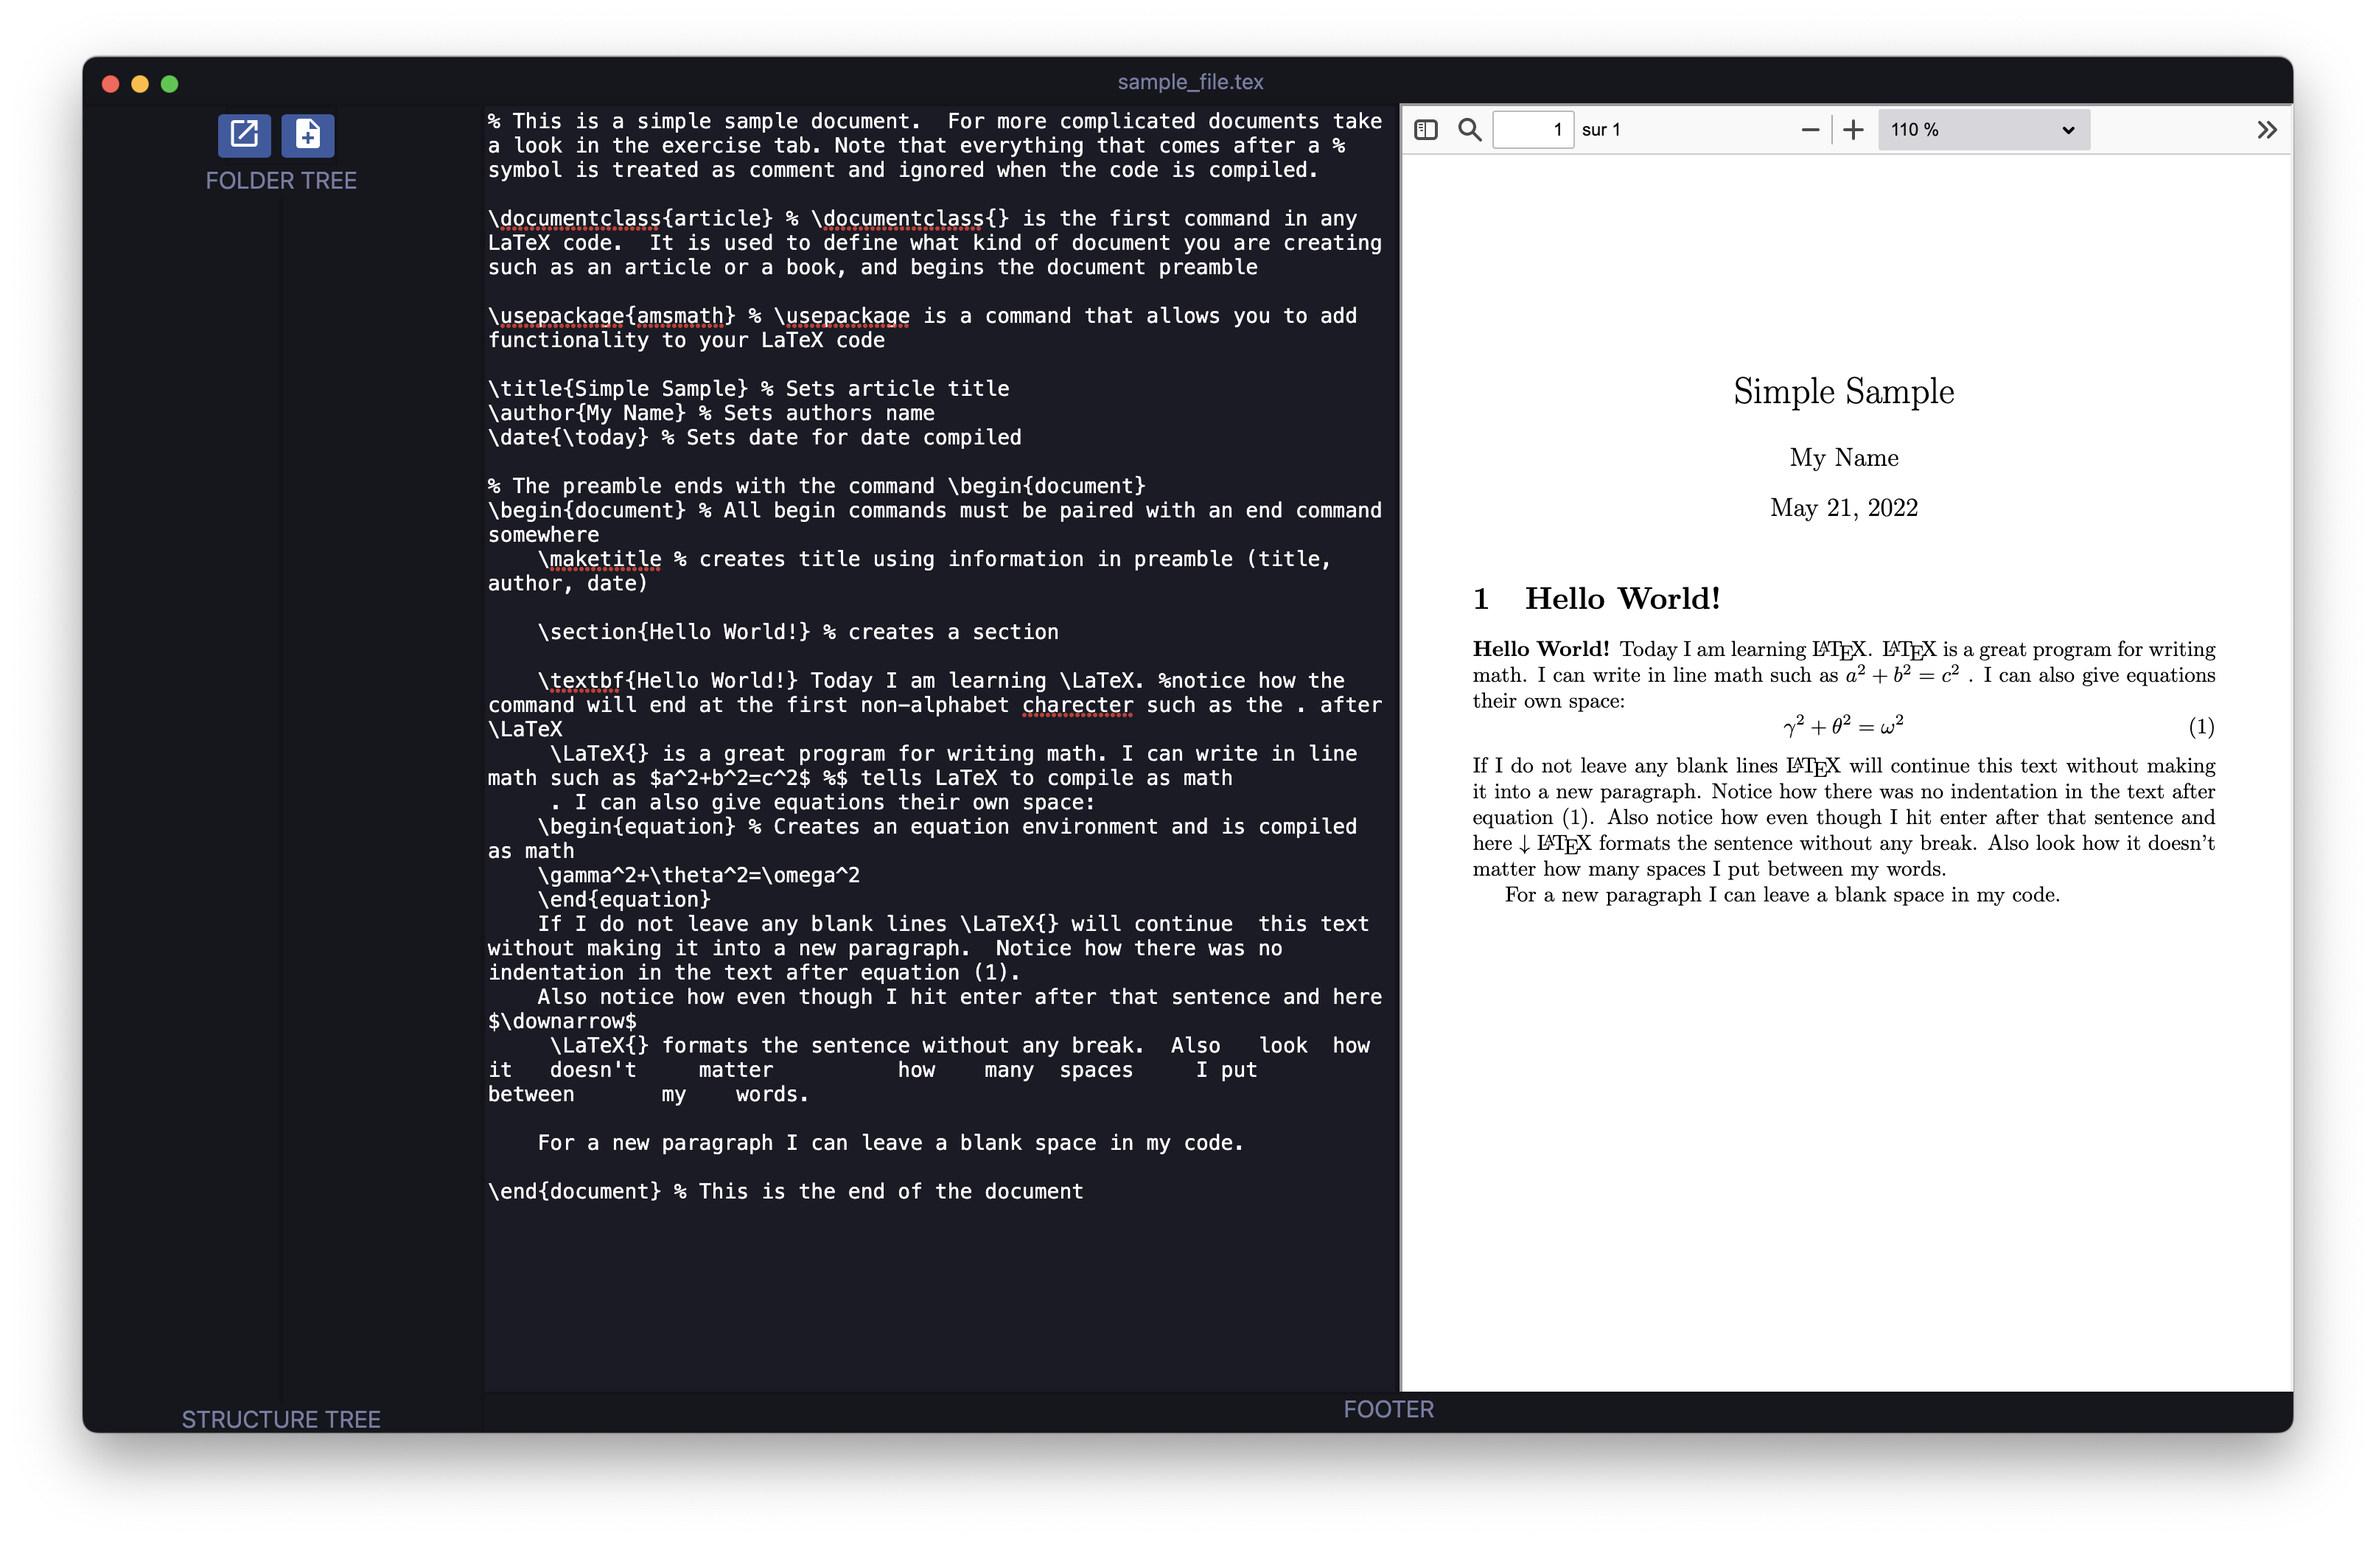
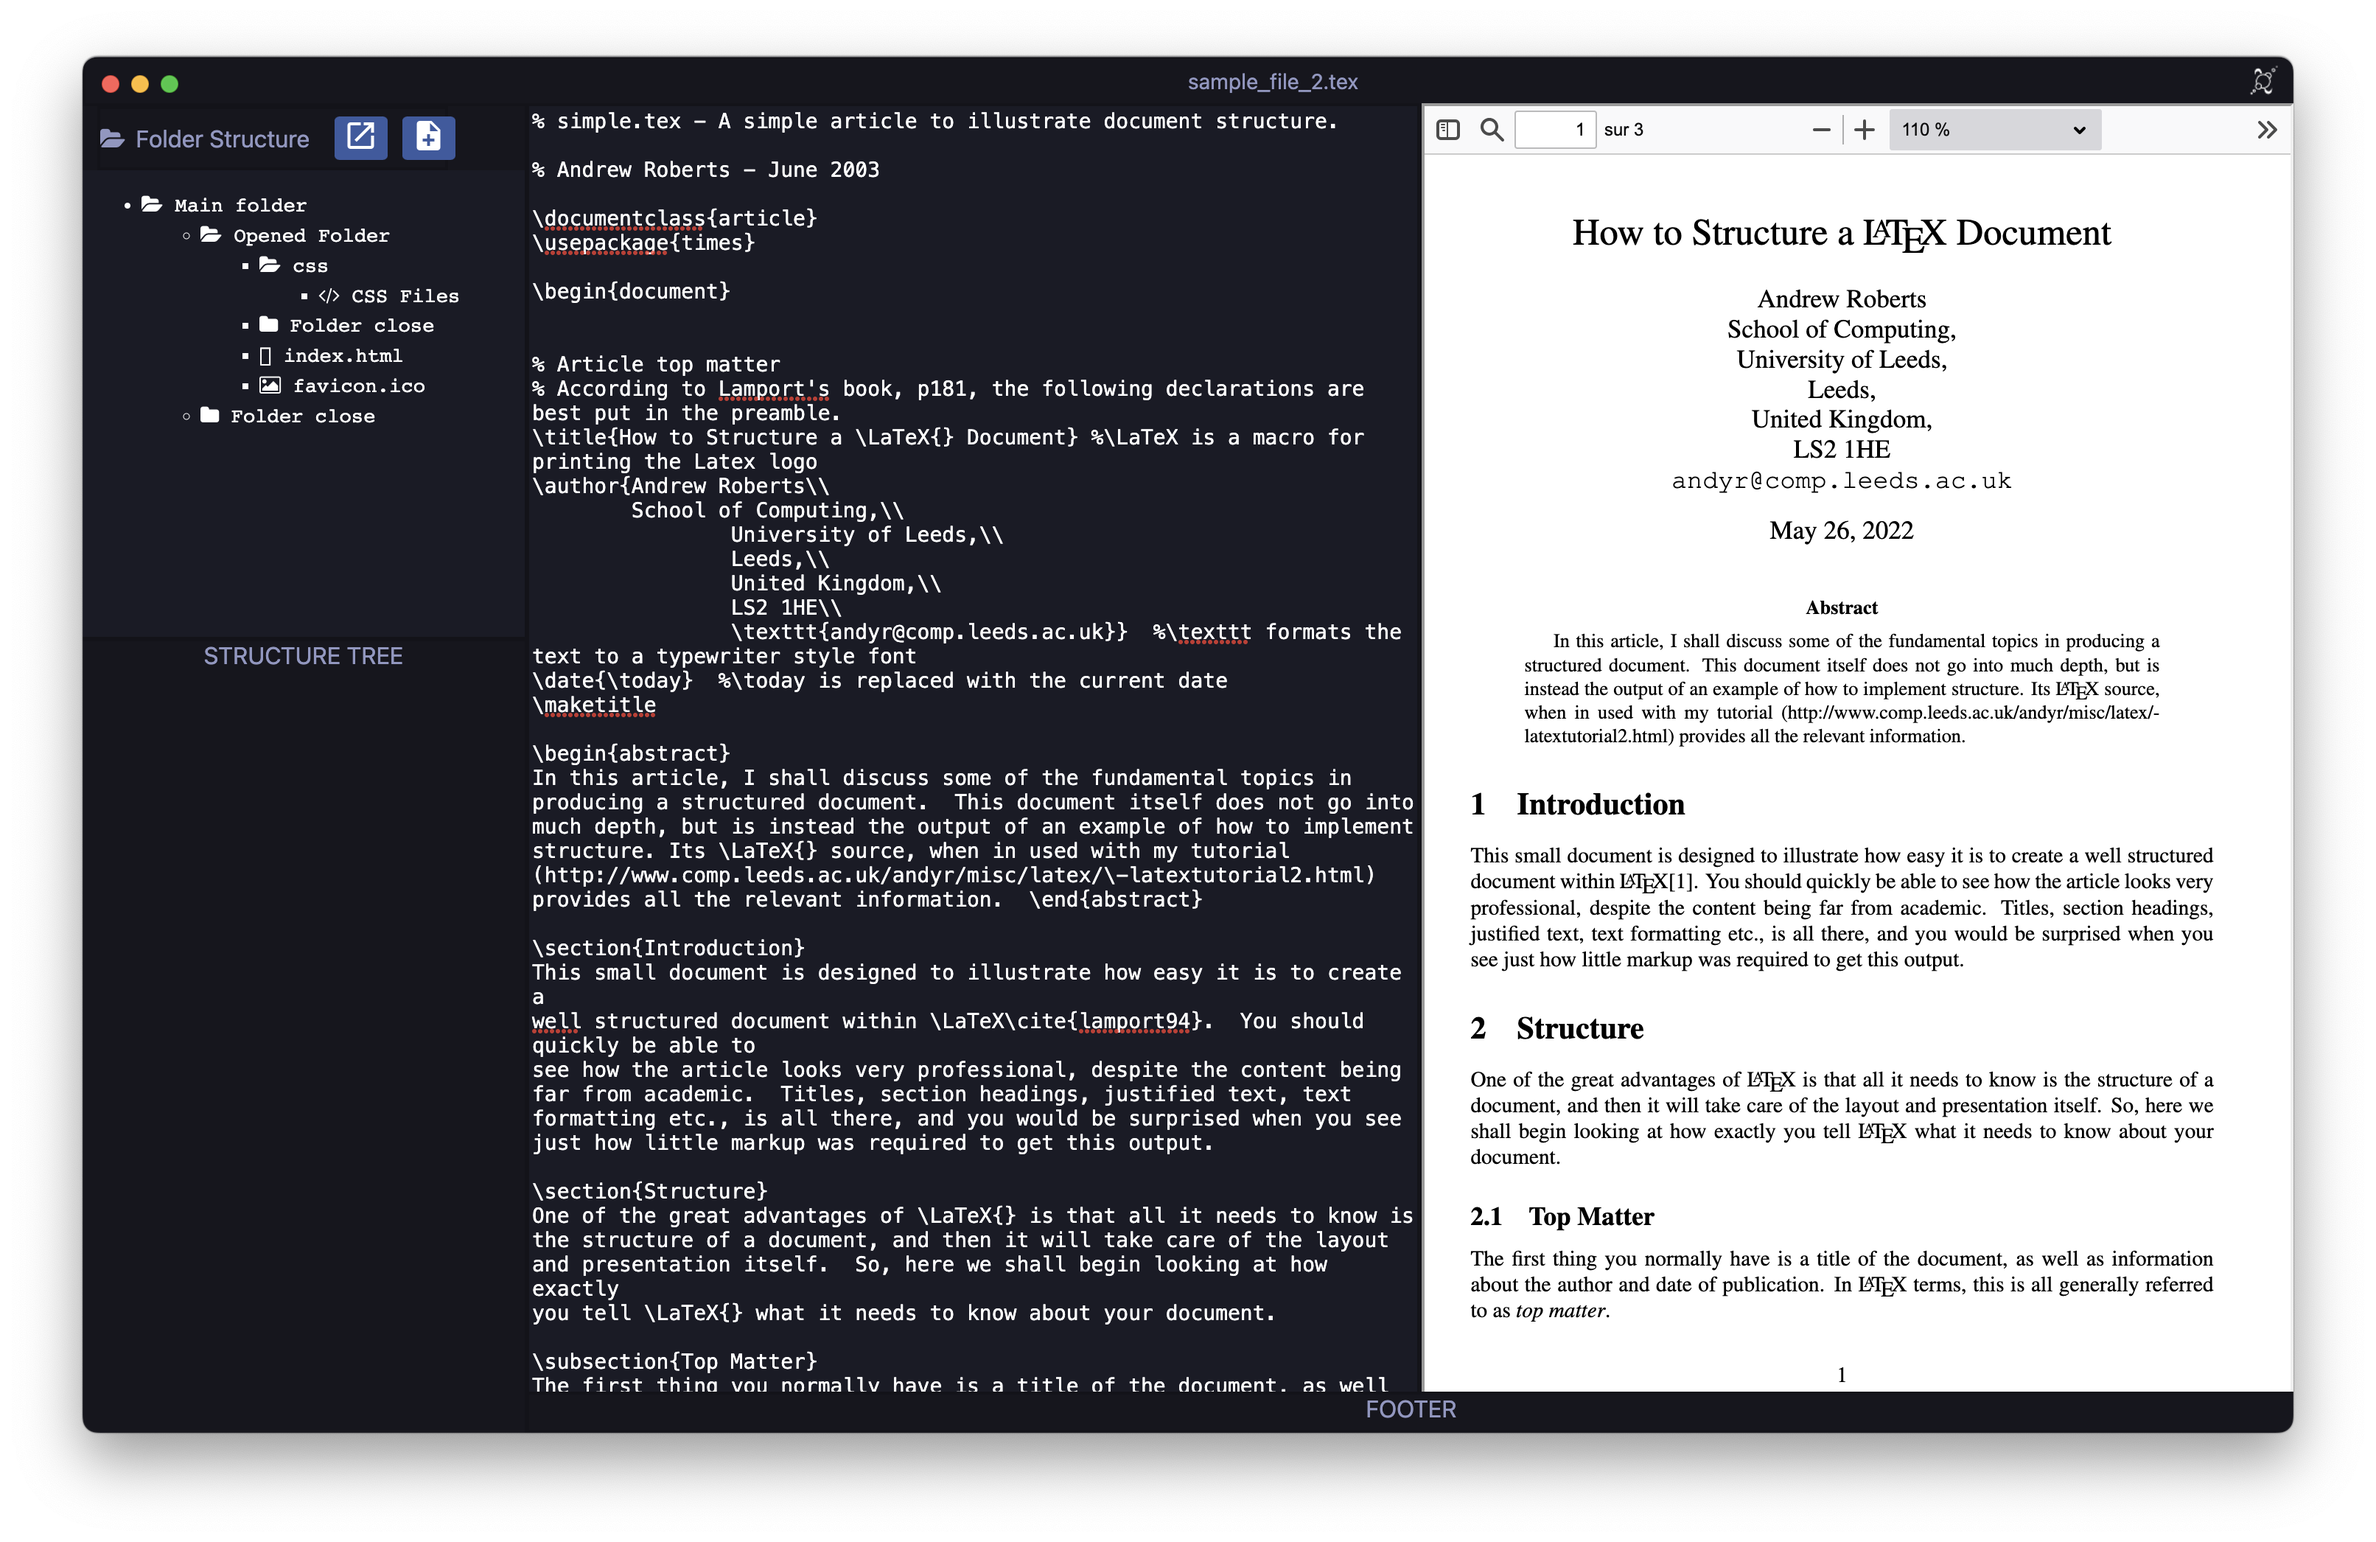
Diverse updates

diff --git a/src/index.html b/src/index.html
@@ -7,6 +7,7 @@
         <meta http-equiv="Content-Security-Policy" content="script-src 'self';" />
 
         <link href="https://fonts.googleapis.com/css2?family=Material+Icons" rel="stylesheet" />
+        <link rel="stylesheet" href="https://cdnjs.cloudflare.com/ajax/libs/font-awesome/4.7.0/css/font-awesome.min.css">
         <link rel="stylesheet" href="./styles.css" />
 
         <title>Elements LaTeX</title>
@@ -14,18 +15,41 @@
     <body>
         <div class="title-bar">
             <span class="document-name unselectable" id="documentName"> No file opened yet </span>
-            <img class="unselectable" id="simplifiedLogoImage" src="../assets/ui/simplified_logo.png" alt="Simplified Elements Logo">
-        </div>
+            <img class="unselectable" id="simplifiedLogoImage" src="../assets/ui/simplified_logo.png" alt="Simplified Elements Logo">        </div>
 
         <main>
             <div class="HContainer" id="main-container">
                 <div class="VContainer" id="sidePanel">
                     <div id="folderTreePanel">
                         <div id="folderManagementBar">
+                            <div class="unselectable" id="folderStructureLabel"><i class="fa fa-folder-open"></i>Folder Structure</div>
                             <button id="openDocumentBtn"><span class="material-icons"> launch </span></button>
                             <button id="createDocumentBtn"><span class="material-icons"> note_add </span></button>
                         </div>
-                        FOLDER TREE
+                        
+                        <div class="tree unselectable">
+                            <ul>
+                              <li><i class="fa fa-folder-open"></i> Main folder
+                                <ul>
+                                  <li><i class="fa fa-folder-open"></i> Opened Folder
+                                    <ul>
+                                      <li><i class="fa fa-folder-open"></i> css
+                                        <ul>
+                                          <li><i class="fa fa-code"></i> CSS Files</li>    
+                                        </ul>
+                                      </li>
+                                      <li><i class="fa fa-folder"></i> Folder close
+                                      </li>
+                                      <li><i class="fab fa-html5"></i> index.html</li>
+                                      <li><i class="fa fa-picture-o"></i> favicon.ico</li>
+                                    </ul>
+                                  </li>
+                                  <li><i class="fa fa-folder"></i> Folder close</li>
+                                </ul>
+                              </li>
+                            </ul>
+                        </div>
+
                     </div>
                     <div id="folderStructureResizer" class="resizer" data-direction="vertical"></div>
                     <div id="structureTreePanel">STRUCTURE TREE</div>

diff --git a/src/styles.css b/src/styles.css
@@ -2,7 +2,8 @@
 body {
     background-color: rgb(22, 22, 30);
     margin: 0;
-    color: rgb(120, 124, 163);
+    color: rgb(146, 150, 195);
+    /*rgb(120, 124, 163);*/
     display: flex;
     flex-direction: column;
     height: 100vh;
@@ -87,32 +88,68 @@ main
 
 /* SIDE PANEL */
 #sidePanel {
-    width: 18%;
+    width: 20%;
 
     align-items: center;
     display: flex;
     flex-direction: column;
     text-align: center;
     justify-content: center;
+
+    min-width: 10%;
+}
+
+#folderStructureLabel {
+    font-size: medium;
+    width: auto;
+    white-space: nowrap;
+    margin-right: 5%;
+}
+
+#folderStructureLabel i {
+    margin-right: 7px;
 }
 
 #folderTreePanel {
+    width: 100%;
     height: 40%;
+    min-height: 30%;
     display: flex;
     align-items: center;
     justify-content: center;
     flex-direction: column;
 }
 
+.tree {
+    width: 100%;
+    height: 100%;
+    background-color: rgb(26, 27, 38);
+    color: #fff;
+    font-family: 'Roboto Mono', monospace;
+    font-size: .85rem;
+    font-weight: 400;
+    line-height: 1.5;
+    text-align: left;
+}
+
+.tree span {
+      font-size: 13px;
+      font-style: italic;
+      letter-spacing: .4px;
+      color: #a8a8a8;
+}
+
 #folderManagementBar {
     display: flex;
     align-items: center;
-    justify-content: center;
+    justify-content: left;
+    margin-left: 10px;
+    margin-right: auto;
 }
 
 #folderManagementBar button {
     border-radius: 10%;
-    margin-right: 10%;
+    margin: 5px;
     background-color: rgb(61, 89, 161);
     border: none;
     outline: none;
@@ -121,7 +158,9 @@ main
 
 #structureTreePanel {
     flex: 1;
-    vertical-align: center;
+    height: 100%;
+
+    min-height: 20%;
 }
 
 /* DEVELOPMENT PANEL */
@@ -142,13 +181,14 @@ main
 #codeEditorPanel {
     font-size: 14px;
     width: 50%;
+    min-width: 20%;
 
     align-items: center;
     display: flex;
     justify-content: center;
 
     background-color: rgb(26, 27, 38);
-    color: #fff;
+    color: #fff;/*rgb(122, 162, 247);*/
     border: none;
     outline: none;
     resize: none;
@@ -175,6 +215,8 @@ main
     align-items: center;
     display: flex;
     justify-content: center;
+
+    min-width: 20%;
 }
 
 iframe {

diff --git a/src/renderer.js b/src/renderer.js
@@ -2,6 +2,23 @@ const { ipcRenderer } = require("electron");
 const path = require("path");
 const fs = require("fs");
 
+var _getAllFilesFromFolder = function(dir) {
+    var results = [];
+
+    filesystem.readdirSync(dir).forEach(function(file) {
+
+        file = dir+'/'+file;
+        var stat = filesystem.statSync(file);
+
+        if (stat && stat.isDirectory()) {
+            results = results.concat(_getAllFilesFromFolder(file))
+        } else results.push(file);
+
+    });
+
+    return results;
+};
+
 window.addEventListener("DOMContentLoaded", () => {
     let texDocumentPath = "";
 
@@ -35,7 +52,7 @@ window.addEventListener("DOMContentLoaded", () => {
             if (err == null) {
                 // Create an iframe that points to our PDF.js viewer, and tell PDF.js to open the file that was selected from the file picker.
                 const iframe = document.createElement('iframe');
-                iframe.src = path.resolve(__dirname, `../libs/pdfjs/web/viewer.html?file=${pdfPath}#pagemode=none`);
+                iframe.src = path.resolve(__dirname, `../libs/pdfjs/web/viewer.html?file=${pdfPath}#pagemode=none&zoom=110`);
 
                 // Add the iframe to our UI.
                 viewerEle.appendChild(iframe);
@@ -69,9 +86,9 @@ window.addEventListener("DOMContentLoaded", () => {
         handleDocumentChange(filePath, content);
     });
 
-
+    const minWidth = 15;
+    const minHeight = 15;
     /* RESIZABLE AREAS */
-    
     const resizable = function (resizer) {
         const direction = resizer.getAttribute('data-direction') || 'horizontal';
         const prevSibling = resizer.previousElementSibling;

diff --git a/src/main.js b/src/main.js
@@ -3,6 +3,7 @@ const path = require("path");
 const fs = require("fs");
 const settings = require("electron-settings");
 const { set } = require("electron-settings");
+const { get } = require("http");
 
 const isDevelopementEnvironement = process.env.NODE_ENV === "development";
 
@@ -141,6 +142,22 @@ const createWindow = () => {
 
     const menu = Menu.buildFromTemplate(menuTemplate);
     Menu.setApplicationMenu(menu);
+};
+
+const getAllFilesFromFolder = function(dir) {
+    var results = [];
+
+    fs.readdirSync(dir).forEach(function(file) {
+
+        file = dir+'/'+file;
+        var stat = fs.statSync(file);
+
+        if (stat && stat.isDirectory()) {
+            results = results.concat(getAllFilesFromFolder(file))
+        } else results.push(file);
+
+    });
+    return results;
 };
 
 const openFile = (filePath) => {

diff --git a/README.md b/README.md
@@ -4,7 +4,7 @@ Coming soon.
 
 ## Preview
 This is the current interface of Elements LaTeX, still at a very early development state:
-![Current interface screenshot](/assets/current_screenshot.png)
+![Current interface screenshot](/assets/screenshots/current_screenshot.png)
 
 ## Building the project
 This project uses `npm` and `electron`.
